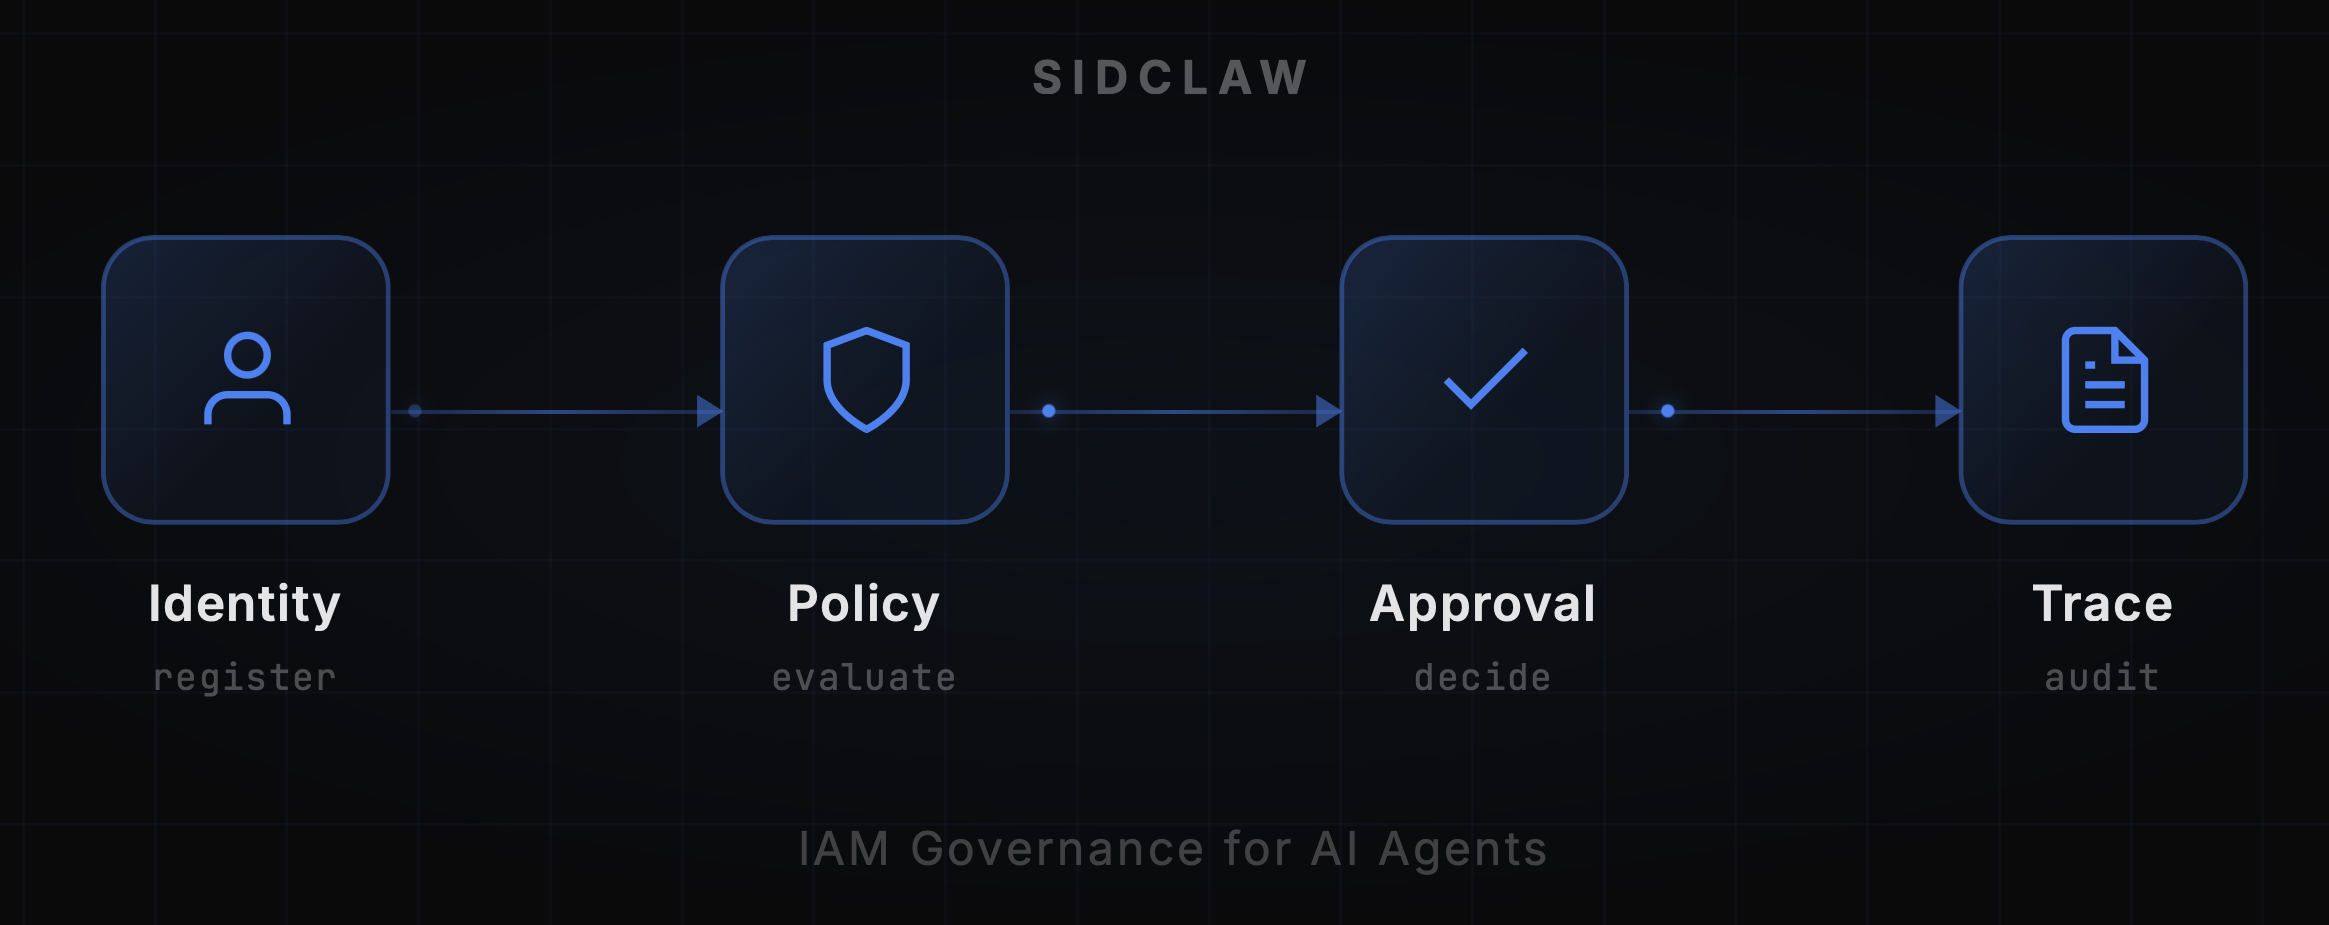
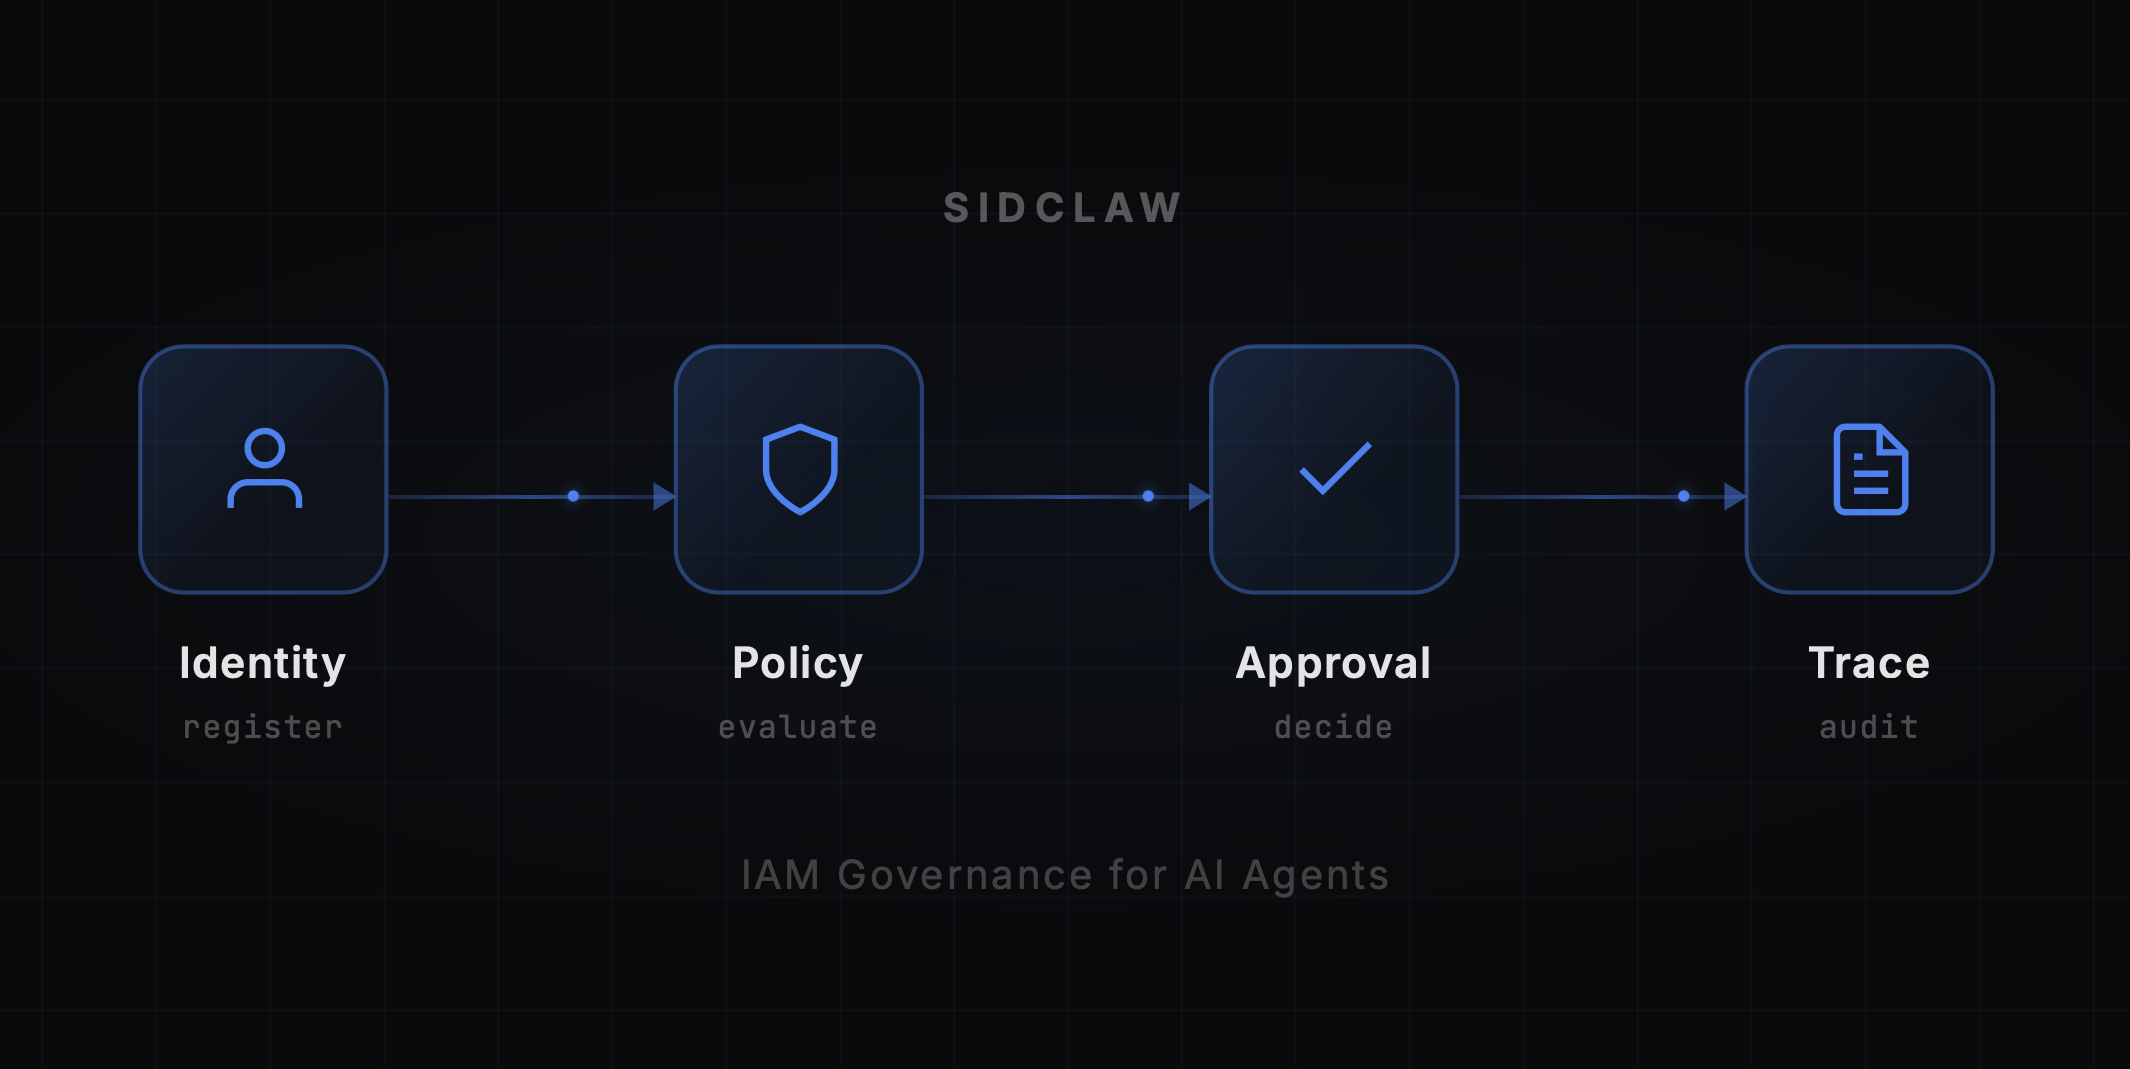
fix(landing): update OG image to correct 1.91:1 aspect ratio for Twitter cards

diff --git a/apps/landing/src/app/layout.tsx b/apps/landing/src/app/layout.tsx
@@ -28,8 +28,8 @@ export const metadata: Metadata = {
     images: [
       {
         url: "https://sidclaw.com/og-image.png",
-        width: 2329,
-        height: 925,
+        width: 2130,
+        height: 1069,
         alt: "SidClaw — Identity → Policy → Approval → Trace",
       },
     ],
